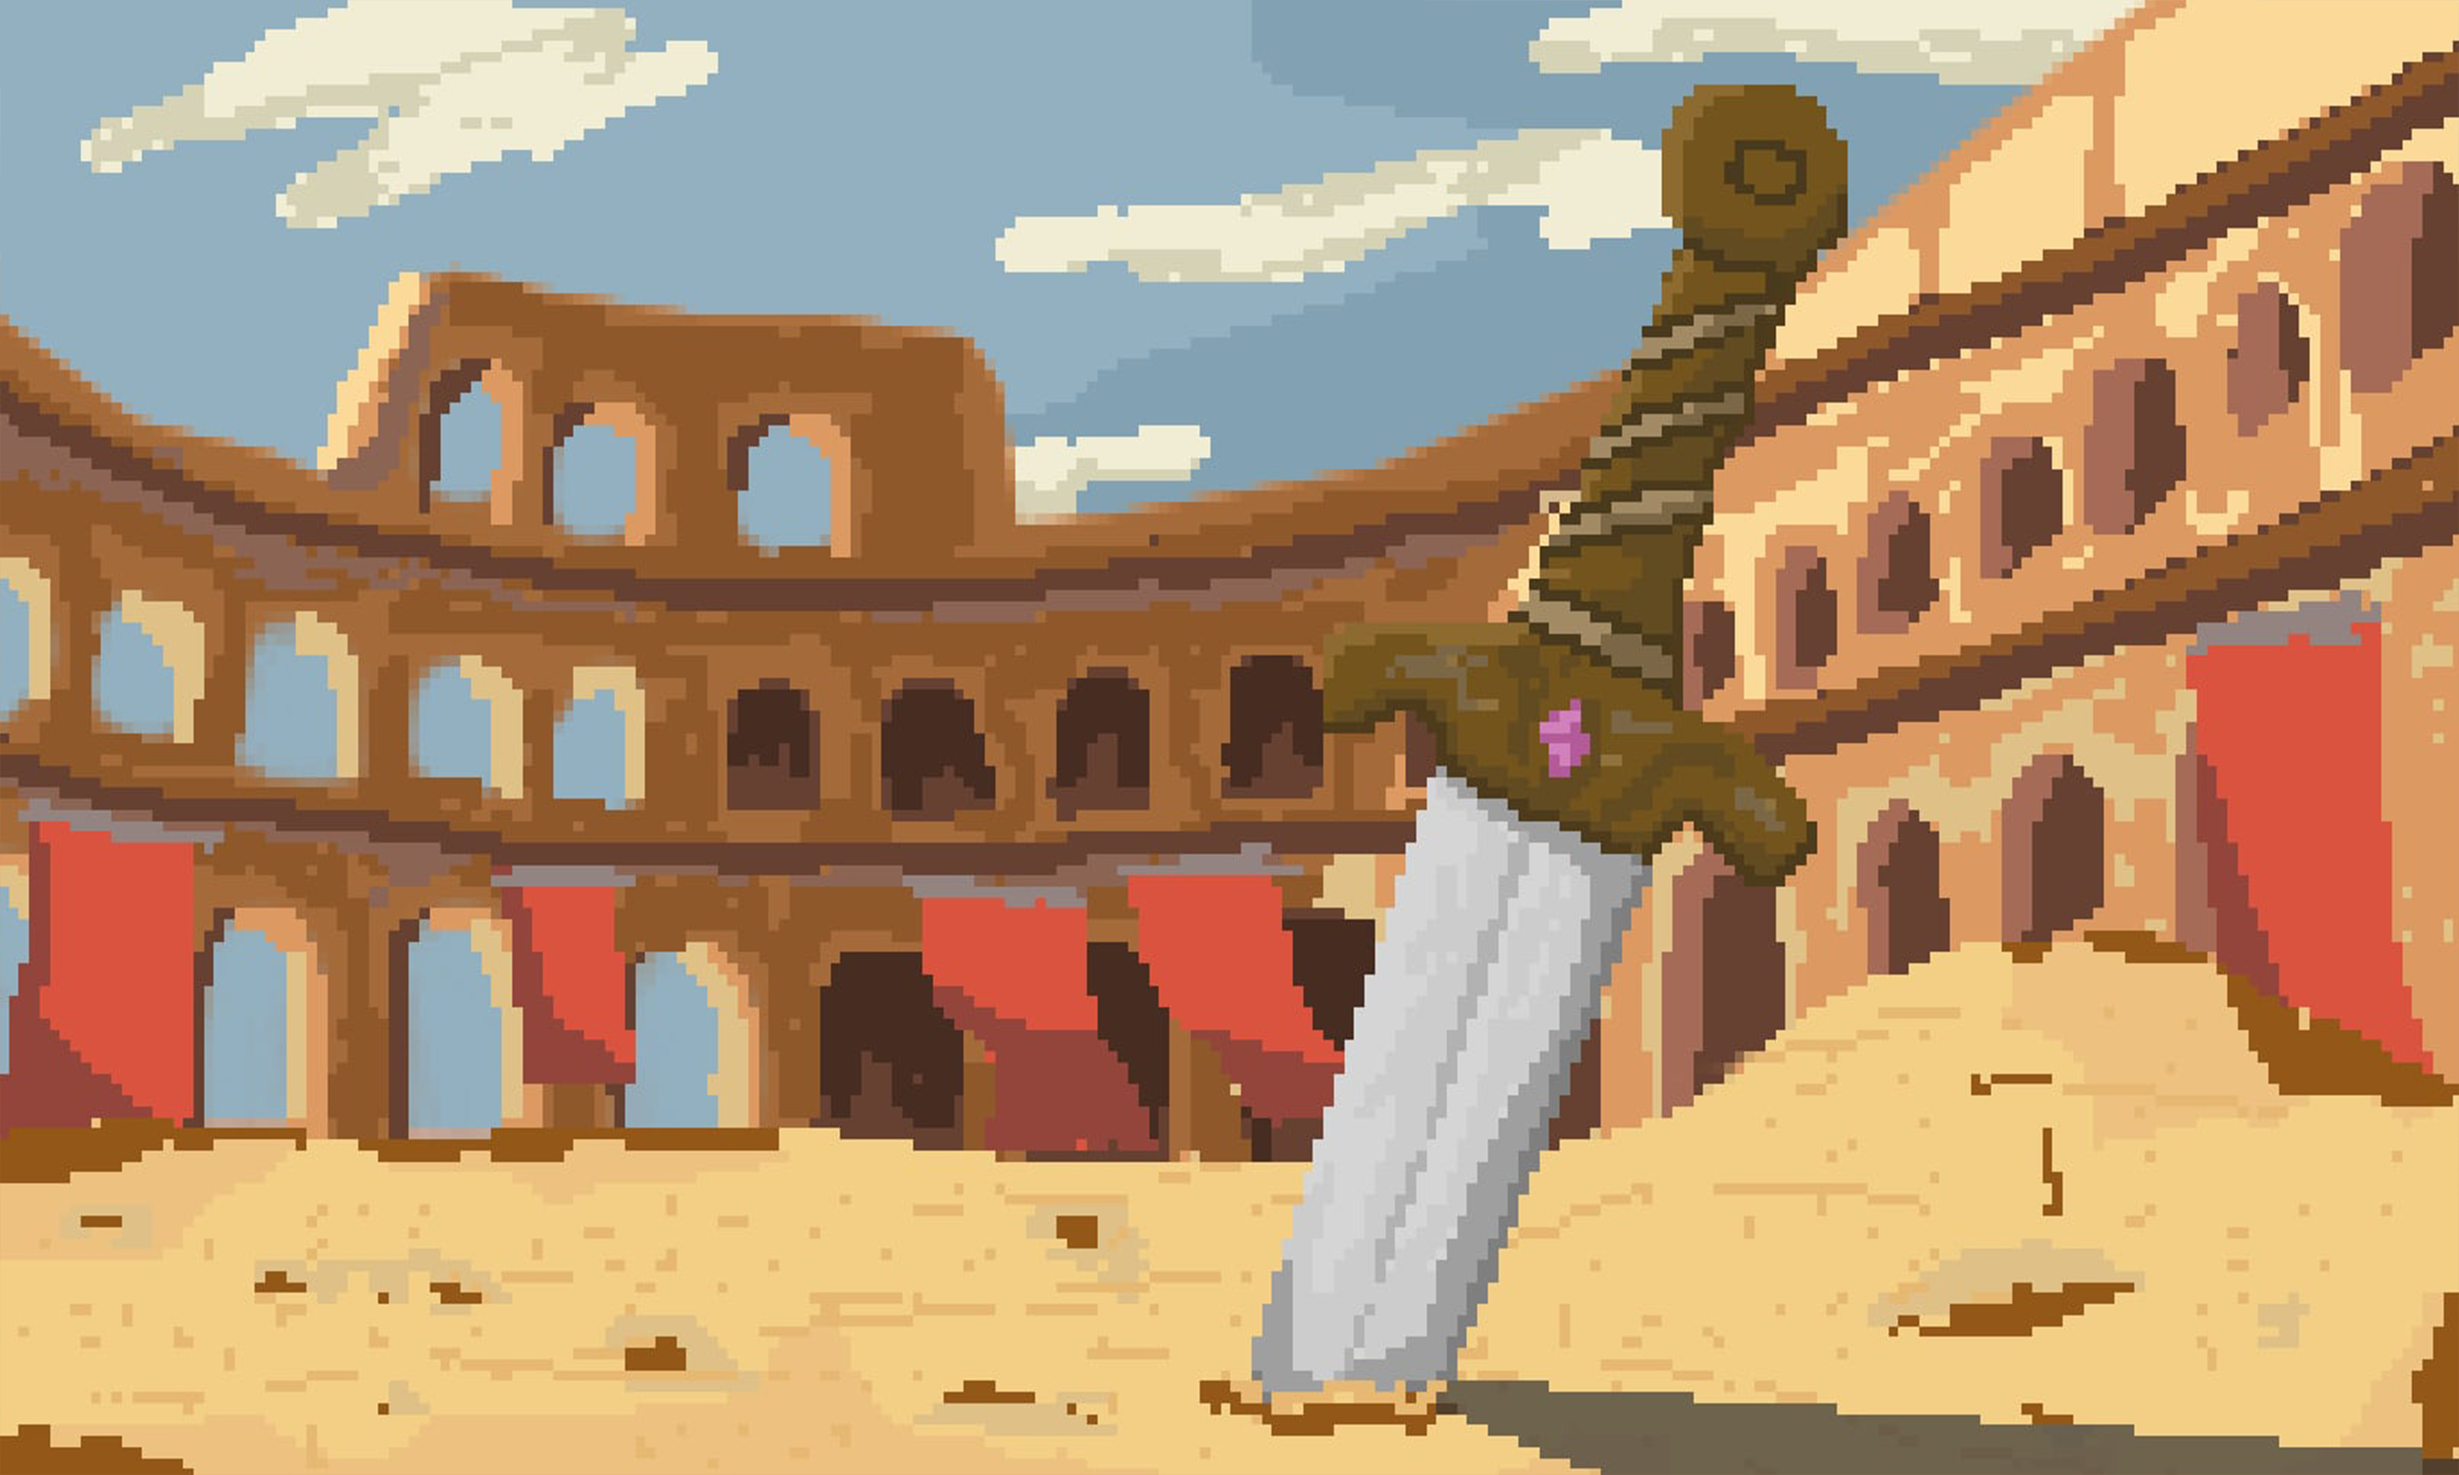
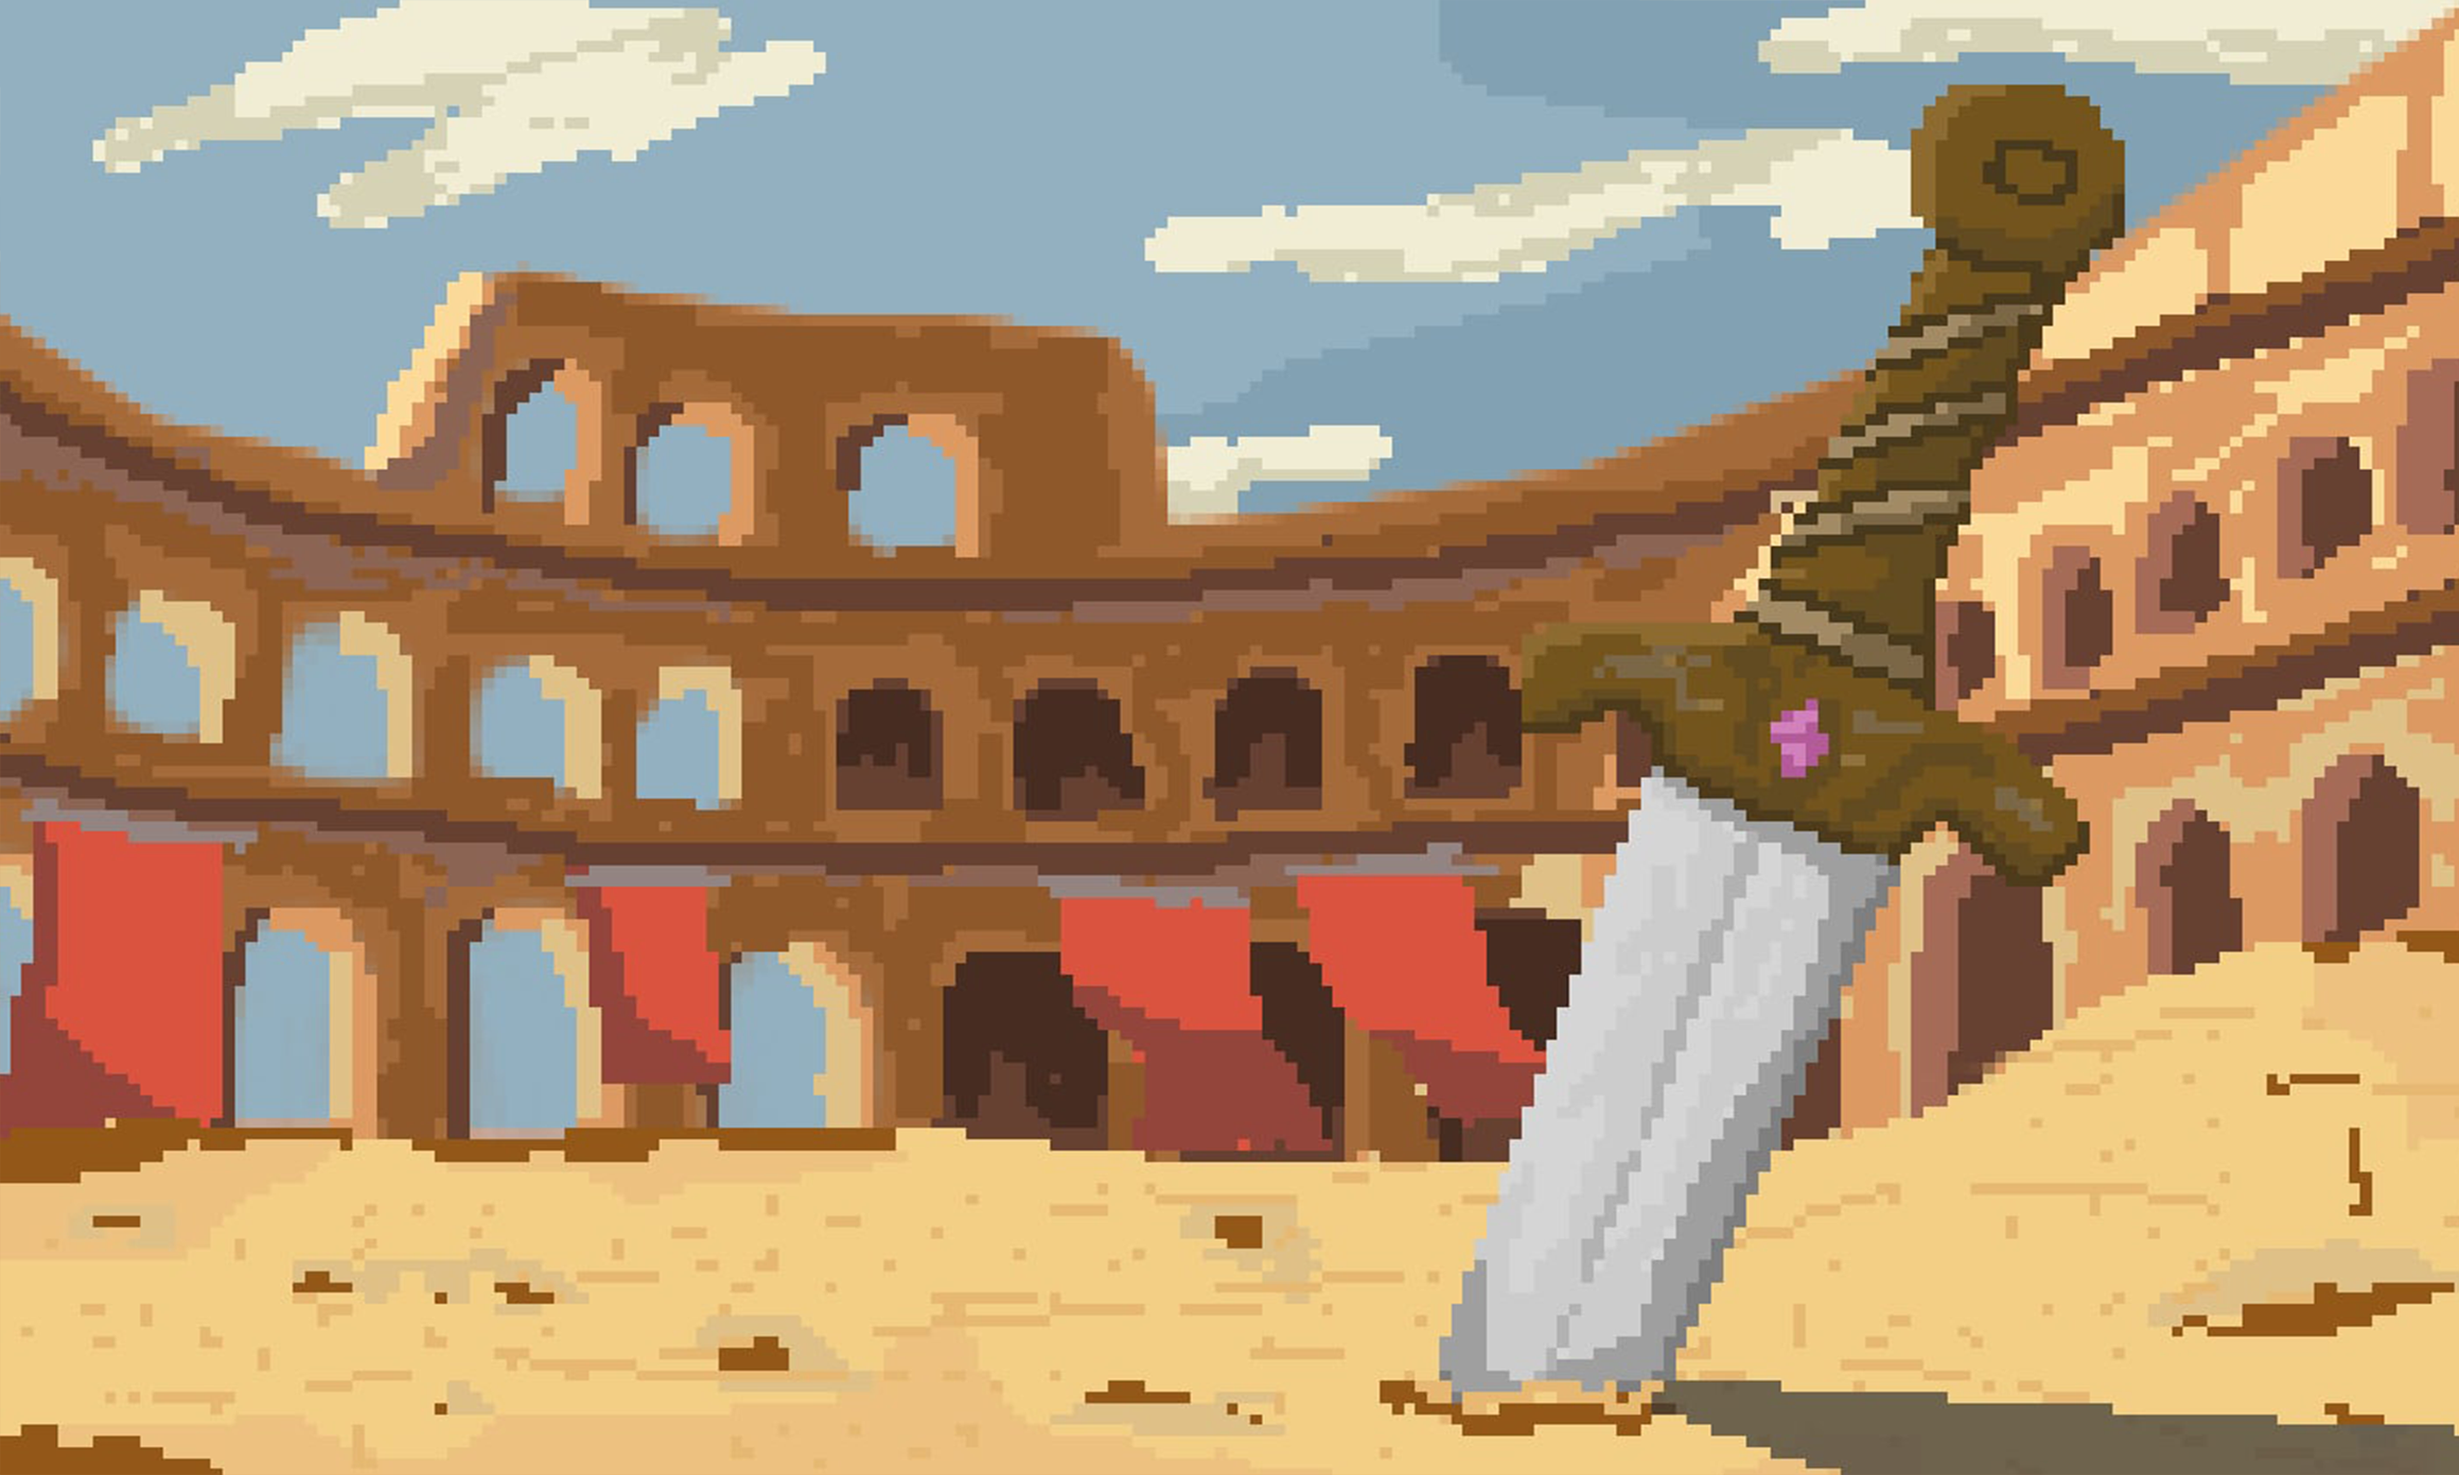
Recolors and End screen delay

diff --git a/FinalProject/MenuManager.cs b/FinalProject/MenuManager.cs
@@ -28,6 +28,9 @@ public class MenuManager
 
     Texture2D _pauseMenu;
 
+    float _endTimer = 0;
+    bool _backClickable = false;
+
 
     public MenuManager(Game1 game)
     {
@@ -96,35 +99,53 @@ public class MenuManager
 
     public void UpdateGameOverMenu(GameTime gameTime)
     {
-        MouseState mouseState = Mouse.GetState( );
+        if (!_backClickable && _endTimer == 0) _endTimer = 1f;
+        if (_endTimer > 0f)
+        {
+            _backClickable = true;
+            _endTimer -= (float)gameTime.ElapsedGameTime.TotalSeconds;
+            return;
+        }
+
+            MouseState mouseState = Mouse.GetState();
 
         if (new Rectangle(SceneManager.WINWIDTH / 4, SceneManager.WINHEIGHT - 250, 550, 80).Contains(mouseState.Position))
         {
             backMainCol = Color.Yellow;
             if (mouseState.LeftButton == ButtonState.Pressed)
             {
-                SoundManager.PlayClickSound( );
-                SoundManager.StopMusic( );
+                SoundManager.PlayClickSound();
+                SoundManager.StopMusic();
                 _game._gameState = GameState.MainMenu;
             }
-        } else backMainCol = Color.White;
+        }
+        else backMainCol = Color.White;
     }
 
     public void UpdateVictoryMenu(GameTime gameTime)
     {
-        MouseState mouseState = Mouse.GetState( );
+        if (!_backClickable && _endTimer == 0) _endTimer = 1f;
+        if (_endTimer > 0f)
+        {
+            _backClickable = true;
+            _endTimer -= (float)gameTime.ElapsedGameTime.TotalSeconds;
+            return;
+        }
+
+        MouseState mouseState = Mouse.GetState();
 
         if (new Rectangle(SceneManager.WINWIDTH / 4, SceneManager.WINHEIGHT - 250, 550, 80).Contains(mouseState.Position))
         {
             backMainCol = Color.Yellow;
             if (mouseState.LeftButton == ButtonState.Pressed)
             {
-                SoundManager.PlayClickSound( );
+                SoundManager.PlayClickSound();
                 File.Delete("save.txt");
-                SoundManager.StopMusic( );
+                SoundManager.StopMusic();
                 _game._gameState = GameState.MainMenu;
             }
-        } else backMainCol = Color.White;
+        }
+        else backMainCol = Color.White;
     }
 
     public void DrawMainMenu(SpriteBatch sb)
@@ -134,7 +155,7 @@ public class MenuManager
         // Draw background
         sb.Draw(_menuBg, new Rectangle(0, 0, _game.Window.ClientBounds.Width, _game.Window.ClientBounds.Height), Color.White);
 
-        float logoScale = 5.5f;
+        float logoScale = 1.5f;
         int logoX = 30;
         int logoY = -90;
         int logoWidth = (int)(_logTexture.Width * logoScale);
@@ -179,17 +200,17 @@ public class MenuManager
 
     public void DrawGameOverMenu(SpriteBatch sb)
     {
-        sb.Begin( );
+        sb.Begin();
         sb.Draw(_gameOverBg, new Rectangle(0, 0, _game.Window.ClientBounds.Width, _game.Window.ClientBounds.Height), Color.White);
         sb.Draw(backMainTex, new Rectangle(SceneManager.WINWIDTH / 4, SceneManager.WINHEIGHT - 250, 550, 80), backMainCol);
-        sb.End( );
+        sb.End();
     }
 
     public void DrawVictoryMenu(SpriteBatch sb)
     {
-        sb.Begin( );
+        sb.Begin();
         sb.Draw(_victoryBg, new Rectangle(0, 0, _game.Window.ClientBounds.Width, _game.Window.ClientBounds.Height), Color.White);
         sb.Draw(backMainTex, new Rectangle(SceneManager.WINWIDTH / 4, SceneManager.WINHEIGHT - 250, 550, 80), backMainCol);
-        sb.End( );
+        sb.End();
     }
 }

diff --git a/FinalProject/SceneManager.cs b/FinalProject/SceneManager.cs
@@ -84,7 +84,7 @@ namespace FinalProject
                 bgTexture,
                 new Rectangle(0, 0, SCENEWIDTH, SCENEHEIGHT),
                 new Rectangle(0, 0, bgTexture.Width, bgTexture.Height),
-                Color.White
+                Color.LightGray
             );
         }
 
@@ -131,7 +131,8 @@ namespace FinalProject
             _player = new Player(graphicsDevice, plyrTexture, plyrDest, plyrSource, Color.White);
         }
 
-        public static Level[] InitializeLevels( ) => new Level[] { new Level(3), new Level(7) };
+        //public static Level[] InitializeLevels( ) => new Level[] { new Level(3), new Level(7) };
+        public static Level[] InitializeLevels( ) => new Level[] { new Level(1), new Level(1) };
 
         public void CreatePlatforms( )
         {
@@ -148,7 +149,7 @@ namespace FinalProject
                     case '-':
                     case 'z':
                         sourceRectangle = new Rectangle(platformBlocks.Width / 4 * 0, 0, platformBlocks.Width / 4, platformBlocks.Height / 3);
-                        _platform[i] = new Sprite(platformBlocks, new Rectangle(x, y, _spriteWidth, _spriteHeight / 4), sourceRectangle, Color.White);
+                        _platform[i] = new Sprite(platformBlocks, new Rectangle(x, y, _spriteWidth, _spriteHeight / 2), sourceRectangle, Color.White);
                         break;
                     case 'c':
                         sourceRectangle = new Rectangle(platformBlocks.Width / 4 * 2, 0, platformBlocks.Width / 4, platformBlocks.Height);
